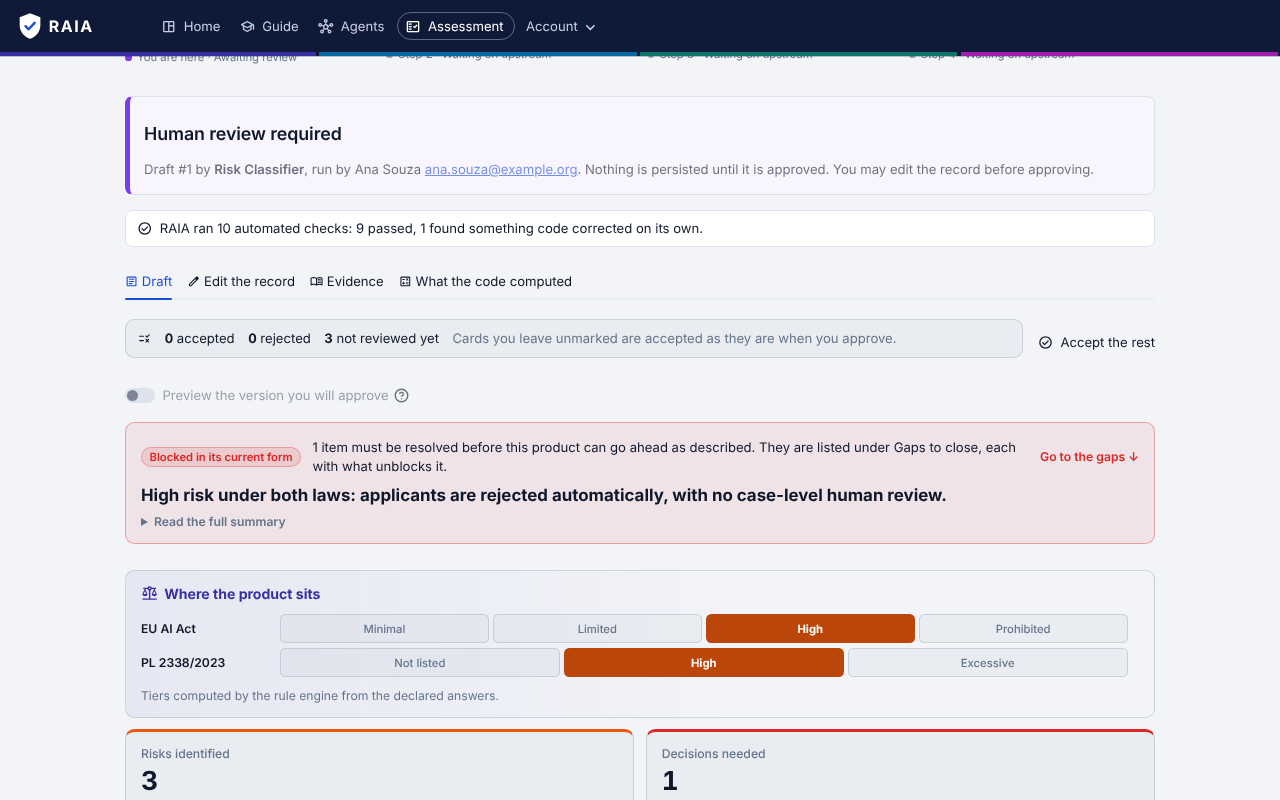
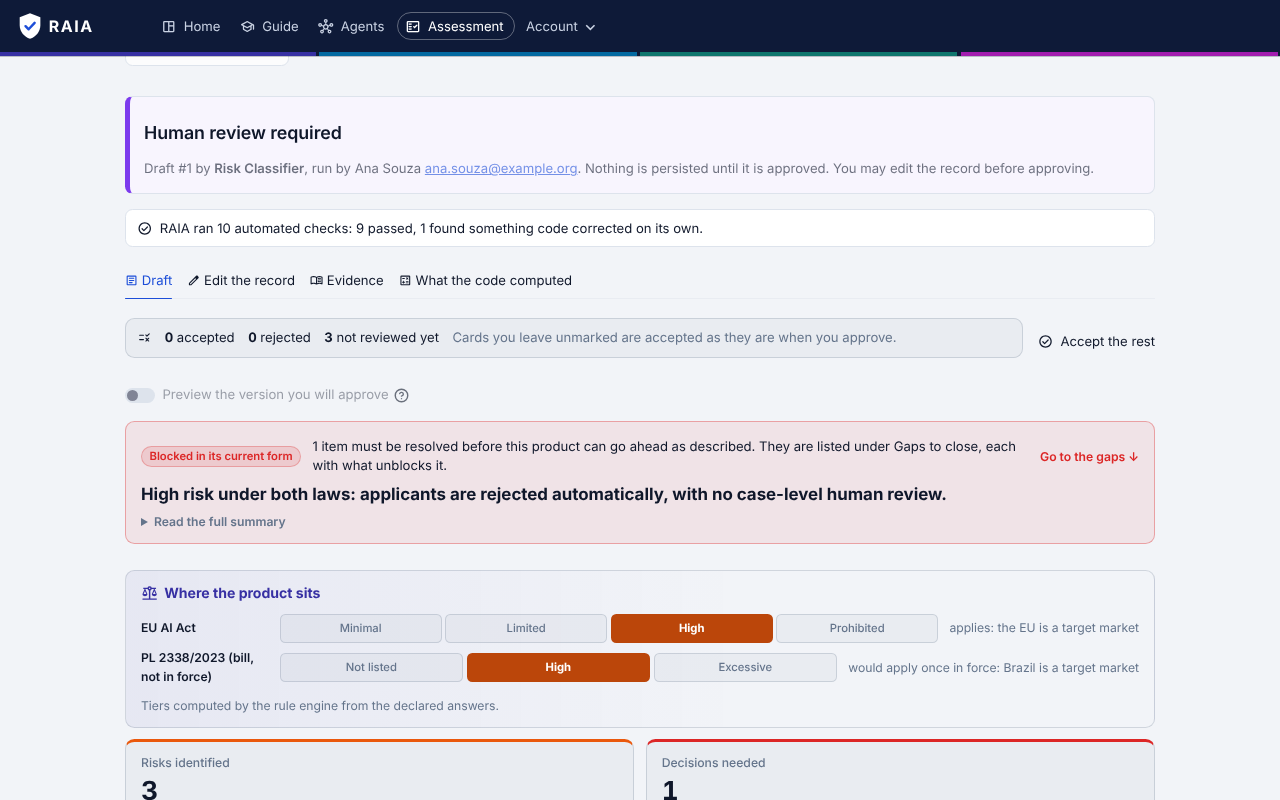
Project log for the panel-readiness work; Guide screenshots retaken
- docs/PROJECT_LOG.md: decisions D78-D86 and the changelog entry for this
  branch (finding prefix PAN-), with what was deliberately left open.
- docs/images/guide: the eight screenshots retaken from the app, so the
  Guide shows three demos, the form with its glossary and the assessment
  as it now is. guide_screenshots.py opens the resume-screening demo by
  its key, since Home now lists it third and the example wording it
  types is that case's.
- views/project.py: the brief shown on the Documents tab is plain text,
  not highlighted as Markdown.

diff --git a/tests/guide_screenshots.py b/tests/guide_screenshots.py
@@ -127,7 +127,8 @@ def walk(base: str, wording: bool) -> None:
         _idle(page)
         shoot(page, "Create a project", wording, at='[class*="st-key-card-demo-"]', block="center")
 
-        page.locator("button", has_text="Create this demo project").first.click()
+        # The example wording below is the resume-screening case's, so that is the demo walked.
+        page.locator('[class*="st-key-demo_project_resume_screening"] button').first.click()
         page.wait_for_url(re.compile("id="), timeout=60000)
         pid = re.search(r"id=([0-9a-f]+)", page.url).group(1)
 

diff --git a/views/project.py b/views/project.py
@@ -183,7 +183,7 @@ with tab_docs:
         show = b1.toggle("Show it here, to read or copy", key=pkey("brief_show"), disabled=not existing)
         slot = st.empty()
         if show and existing:
-            slot.code(_brief().decode("utf-8"), language="markdown", wrap_lines=True)
+            slot.code(_brief().decode("utf-8"), language=None, wrap_lines=True)
     with st.container(border=True, key="card-ai-skill"):
         s1, s2 = st.columns([4, 1.4], vertical_alignment="center")
         s1.markdown(f"{I.SKILL} **Continue with your own AI assistant**")

diff --git a/docs/PROJECT_LOG.md b/docs/PROJECT_LOG.md
@@ -165,6 +165,15 @@ Recorded so the log stays honest about its own errors.
 | D75 | Every run keeps its exact prompt and raw replies, encrypted (`RAIA_TRANSCRIPT_KEY`), with its token use; without a key, only the hash and token use. All model calls, recommendations included, go through one model pass (`BaseAgent.converse`). Test-double hints are written only for the mock. | A 64-bit prompt hash proved a prompt matched but could not recover it. The recommendation path had its own call with no repair or accounting; real prompts carried lines only the mock reads. |
 | D76 | Assessments are rows: status, project, instrument and build are columns, every answer is an item linked to the project and, for a stage, to the approved version rated. Security-relevant actions are kept in an audit log; errors reach the person as a reference. | Assessments were findable only by person, inside a JSON blob, and research exports by coordinators left no trace. Raw exception text could carry internals. |
 | D77 | A reply whose only fault is trailing commas is read by code (the commas removed, the correction noted in the record); a reply that is not JSON at all gets a repair prompt about syntax, not schema; an unreadable reply is reported as one failure, not a cascade; checks of one family are named with their own label. Unused schema definitions are not shown to the model. | The Requirements Reviewer kept failing on a single trailing comma: strict JSON discarded a complete record, the repair prompt blamed the schema, and the empty fallback record then failed five more checks (two of them under the same name). |
+| D78 | The assessment is about the software only: the AI Skill is not rated (instrument `raia-panel-v3`). This reverses D66. | The panel evaluates in its own time and judges the software. The skill is a download people use freely afterwards; an item answered from reading its README measured nothing, and the success criterion never included it. |
+| D79 | Every stage still needs an answer, and "Did not use this stage" is one. It is stored with no score, counted, and never enters a median. | D67 made the stage items required so they would not be left empty; with people working alone, some will not reach every stage, and a required score for a stage nobody opened is a guess pooled with real ratings. |
+| D80 | An assessment names no project and no version. It is stored with what its author used (per stage: approved, run or none; on a demo, a project of their own, or both) and leaves in the research export under a participant code of its own, dated by day, numbered in an order that is not the order of submission. The export is refused until `RAIA_PSEUDONYM_KEY` is set. This reverses the project link of D76. | The panel is small and its members know each other and the researcher, who also administers the deployment. A rating joined to a project is a rating joined to a person, because a project's description says who wrote it. What the analysis needs from the link (how much of RAIA the person had seen) is kept without it. |
+| D81 | The profile asks three questions (role, years of experience, experience building AI products); the page opens with a neutral line (negative feedback is as useful as positive) and with what the person has used so far, which informs and never blocks; each dimension carries a line saying where to look; the consent says who administers the deployment and how answers are stored. | Region, sector and context are the same for a panel drawn from one place and only help tell people apart. The software may simply be good, so nothing on the form pushes a rating either way. Rigor and completeness cannot be judged from running one stage. A consent has to be true as written. |
+| D82 | A third example case, B2B marketplace: models recommend products and choose the promotions each small shop sees. Outside every listed area, in production, sold in Brazil and other markets but not the EU, fully automated. Cases are listed from the lightest tier to the heaviest. Extends D53. | Neither existing case resembled commercial product work, and neither took the path most products take: a tier that says "minimal" and "not listed", nothing blocking, and work that comes from the principles rather than from an obligation table. |
+| D83 | A legal source that is not law yet is labelled wherever its tier or obligations are shown (`config.PROPOSED_SOURCES`); each tier says whether it binds the product, from the declared markets; a product outside the listed areas is told what the tier does not settle and how many risks were found. The priority floor for legal obligations is unchanged. | PL 2338/2023 is a bill and was shown like law in force; a tier shown without its applicability left "does this bind us?" unanswered; "minimal risk" beside a short obligation table read as "nothing applies". The floor stays because RAIA never lowers a priority on its own and the source keeps its legal authority level; the label says what kind of obligation it is. |
+| D84 | Keeping inputs generic is advice, not a control: one line under New project and in the Guide, and the same in the terms. The Privacy Policy (version 1.2) describes the record kept of each run, the audit log, and the assessment as it now is. | RAIA cannot know what a person is allowed to enter, and a warning that guesses wrong teaches people to ignore it. What the software owes people is an accurate account of what it stores. |
+| D85 | The AI Skill has a fixed part and a project part. The fixed part (instructions and references) takes no project, person or date, is byte-identical for every download of a version, and carries a version and a recorded fingerprint. The project part is everything that differs between downloads. Both are offered in four formats from the same text: Cursor, ChatGPT, Claude, and one Markdown file for any assistant. The fixed part names no assistant, assumes no file access and no connection, and works with no RAIA project, labelling its result self-assessed. Extends D64 and D65. | One package per project meant the instructions could differ between two people's downloads and had to be replaced whenever a project changed. Naming one assistant and one tracker made it a tool for one setup. A product manager or scrum master with several products needs it before any of them has been through RAIA. |
+| D86 | The Risk Classifier's five rarely-needed questions sit in a last group drawn closed; they stay on the form with their default of no and are never inferred. The Requirements Reviewer runs with no requirements list. Every identifier and code is explained on the page that uses it. A one-page brief is written by code from the approved records, naming roles. | A first form of 24 questions, several in the vocabulary of the exceptions, and a second form that required a list a person working from a generic description does not have, stopped people before the first result. Pre-filling the classifier's answers from prose was considered and refused: the answers decide the verdict, and they are asked, not guessed (D7, D30). |
 
 ---
 
@@ -173,6 +182,110 @@ Recorded so the log stays honest about its own errors.
 Entries are added as work lands. Each names the finding IDs it closes.
 
 <!-- CHANGELOG:START -->
+### 2026-11-11 — Ready for the panel to evaluate on its own (branch `panel-readiness`)
+
+Decisions D78–D86. New finding prefix **PAN-** (panel readiness): what stood between the build
+and an evaluation that product managers, working alone and voluntarily, can make honestly and
+well. The review behind these findings lives outside the repository.
+
+#### What was wrong
+
+- **PAN-1** The assessment required a rating of the AI Skill, which is not part of what the
+  panel evaluates.
+- **PAN-2** Every stage required a score, so a stage a person had not opened was rated anyway.
+- **PAN-3** An assessment could name a project, and the research export put the same participant
+  code on assessments and on project membership: a rating could be joined to its author's
+  projects. The codes fell back to a built-in key when none was configured.
+- **PAN-4** The profile asked six questions of a panel in which three of the answers are the
+  same for everyone; nothing on the form said where to look before rating rigor or
+  completeness; the consent did not say who administers the deployment.
+- **PAN-5** Neither demo was close to commercial product work.
+- **PAN-6** A product outside the listed high-risk areas ended on "minimal risk" and a short
+  obligation table, which read as "nothing applies".
+- **PAN-7** PL 2338/2023 was shown like law in force, and no tier said whether it bound the
+  product.
+- **PAN-8** The Privacy Policy did not mention the record of each run or the audit log, and
+  described the assessment as it used to be.
+- **PAN-9** The Guide had twelve steps and no short route to the Assessment, and nothing said in
+  one place what RAIA does not do.
+- **PAN-10** The AI Skill was one package per project, written for a developer's repository and
+  one assistant, with Jira as the only tracker and no use without a RAIA project.
+- **PAN-11** The first form asked 24 questions; the second required a requirements list;
+  identifiers and codes were explained nowhere on the page; no export was a page to hand on.
+
+#### What changed
+
+- **Assessment** (`raia/ui/assessment.py`, `views/assessment.py`): instrument `raia-panel-v3`.
+  The five dimensions are untouched. No skill item; `NOT_USED` on every stage item; three
+  profile questions; `FRAMING`, `BEFORE_RATING`, `DIMENSION_HINTS`, `CONSENT_DETAIL`. The page
+  shows what the person has used (PAN-1, PAN-2, PAN-4).
+- **What was used** (`ProjectService.my_exposure`): derived from the person's own approvals,
+  rejections and drafts at the gate across their projects; a mode counts for its stage; demo or
+  own from the saved example marker. Stored with every assessment; no project id, no version
+  (`_store_assessment`). `project_assessments` is removed (PAN-3).
+- **Research export** (`ProjectService.research_export`): `assessment_code` (A-…) for
+  assessments, `pseudonym` (P-…) for project activity; no project or version on an assessment;
+  `submitted_on` is a day; ratings are numbered by code, not by time; `PseudonymKeyMissing`
+  when no key is set. The README in the export says how to read "did not use" and what the
+  exposure can still reveal on a small panel (PAN-3).
+- **Third example** (`raia/examples.py`, `B2B_MARKETPLACE`): every stage and both Story Refiner
+  modes filled; Home lists the cases lightest tier first (PAN-5).
+- **Risk picture** (`raia/contract/digest.py`): `EU_LABEL`, `BR_LABEL`, `applicability`, and a
+  caption for products outside the listed areas; `config.PROPOSED_SOURCES` and `PROPOSED_NOTE`.
+  The same line is drawn on screen and in the document. The Risk Classifier's prompt says what
+  a finding is when few obligations apply (PAN-6, PAN-7).
+- **Terms** (`docs/legal/PRIVACY_AND_TERMS.md`, version 1.2; `config.LEGAL_EFFECTIVE`): run
+  records, audit log, the assessment, the two participant codes, who administers and exports,
+  what project deletion removes; "Your commitment" is now advice. Everyone is asked to accept
+  again (PAN-8).
+- **Guide** (`raia/ui/guide.py`): "Evaluating RAIA: the short path", "What RAIA is, and what it
+  is not", "Words RAIA uses" (`GLOSSARY`), three demos, the assessment as it now is. The scope
+  block also opens the Agents page. Screenshots retaken from the app (PAN-9, PAN-11).
+- **AI Skill** (`raia/skill/`): fixed part with `SKILL_VERSION` and `FIXED_FINGERPRINT`; project
+  part `raia-project/`; install notes per format in `text/install/`; `references/screening.md`
+  generated from the rule engine; new playbooks (review a product document, check the board,
+  one-page brief, sprint ceremonies), export to any tracker, a plain criterion format, "Before
+  you write anywhere". A Format selector on the Documents tab; `docs/ai-skill/` regenerated,
+  and the generator removes files it no longer writes (PAN-10).
+- **Forms** (`AgentSpec.collapsed_groups`, `raia/ui/gate.py`): "Less common situations" drawn
+  closed on the Risk Classifier; the Requirements Reviewer accepts an empty requirements list;
+  "Words used here" on every stage page (PAN-11).
+- **One-page brief** (`raia/brief.py`): written by code from the approved records, roles only;
+  on the Documents tab, in the project download and in the skill's project part (PAN-11).
+
+#### Tests
+
+- `test_projects.py` 11, 11a: no export without a key; what a person used; an assessment with
+  no project even when one is sent; "did not use" as a row with no score; assessments and
+  project activity cannot be joined in the export.
+- `test_ui.py`: the assessment page (three profile questions, no skill item, "did not use",
+  framing, hints, consent detail); three demos on Home; the Guide additions; the closed group;
+  the glossary; the brief.
+- `test_engines.py`: the third case's verdict and obligations; every case fills every stage
+  with nothing required left empty; the closed group gives the same verdict as answering no;
+  an empty requirements list.
+- `test_contract.py`: labels, applicability and caption of the risk picture.
+- `test_skill.py`: the fixed part is identical across projects and matches its recorded
+  fingerprint; each format's layout; the single file; no assistant named in the fixed part;
+  the brief in the project part.
+- Every suite passes on the Git store and on the database store (SQLite). PostgreSQL was not
+  run for this change.
+
+#### Still open, by decision
+
+- The Risk Classifier's structured answers are not suggested from the description (D86).
+- The priority floor treats a PL 2338/2023 obligation like any legal obligation (D83).
+- Assessments recorded before `raia-panel-v3` keep their project link in the database; nothing
+  exported carries it. They are never pooled with v3 answers.
+- What a person used is derived from the same activity the events record, so an unusual pattern
+  can still point to one participant on a small panel. The export's README says so.
+- Keeping inputs generic is not enforced, and the optional Jira connection stays (D84).
+- The new example was walked end to end with the mock model only. How useful a live model's
+  analysis of a minimal-risk product is has not been measured.
+- The skill has no slot for an organisation's own policies, no sample files, and its behaviour
+  was not checked inside each assistant.
+- No in-app way to report a problem apart from the assessment.
+
 ### 2026-11-09 — Replies with trailing commas are read (branch `fix-reply-parsing`)
 
 Decision D77.
